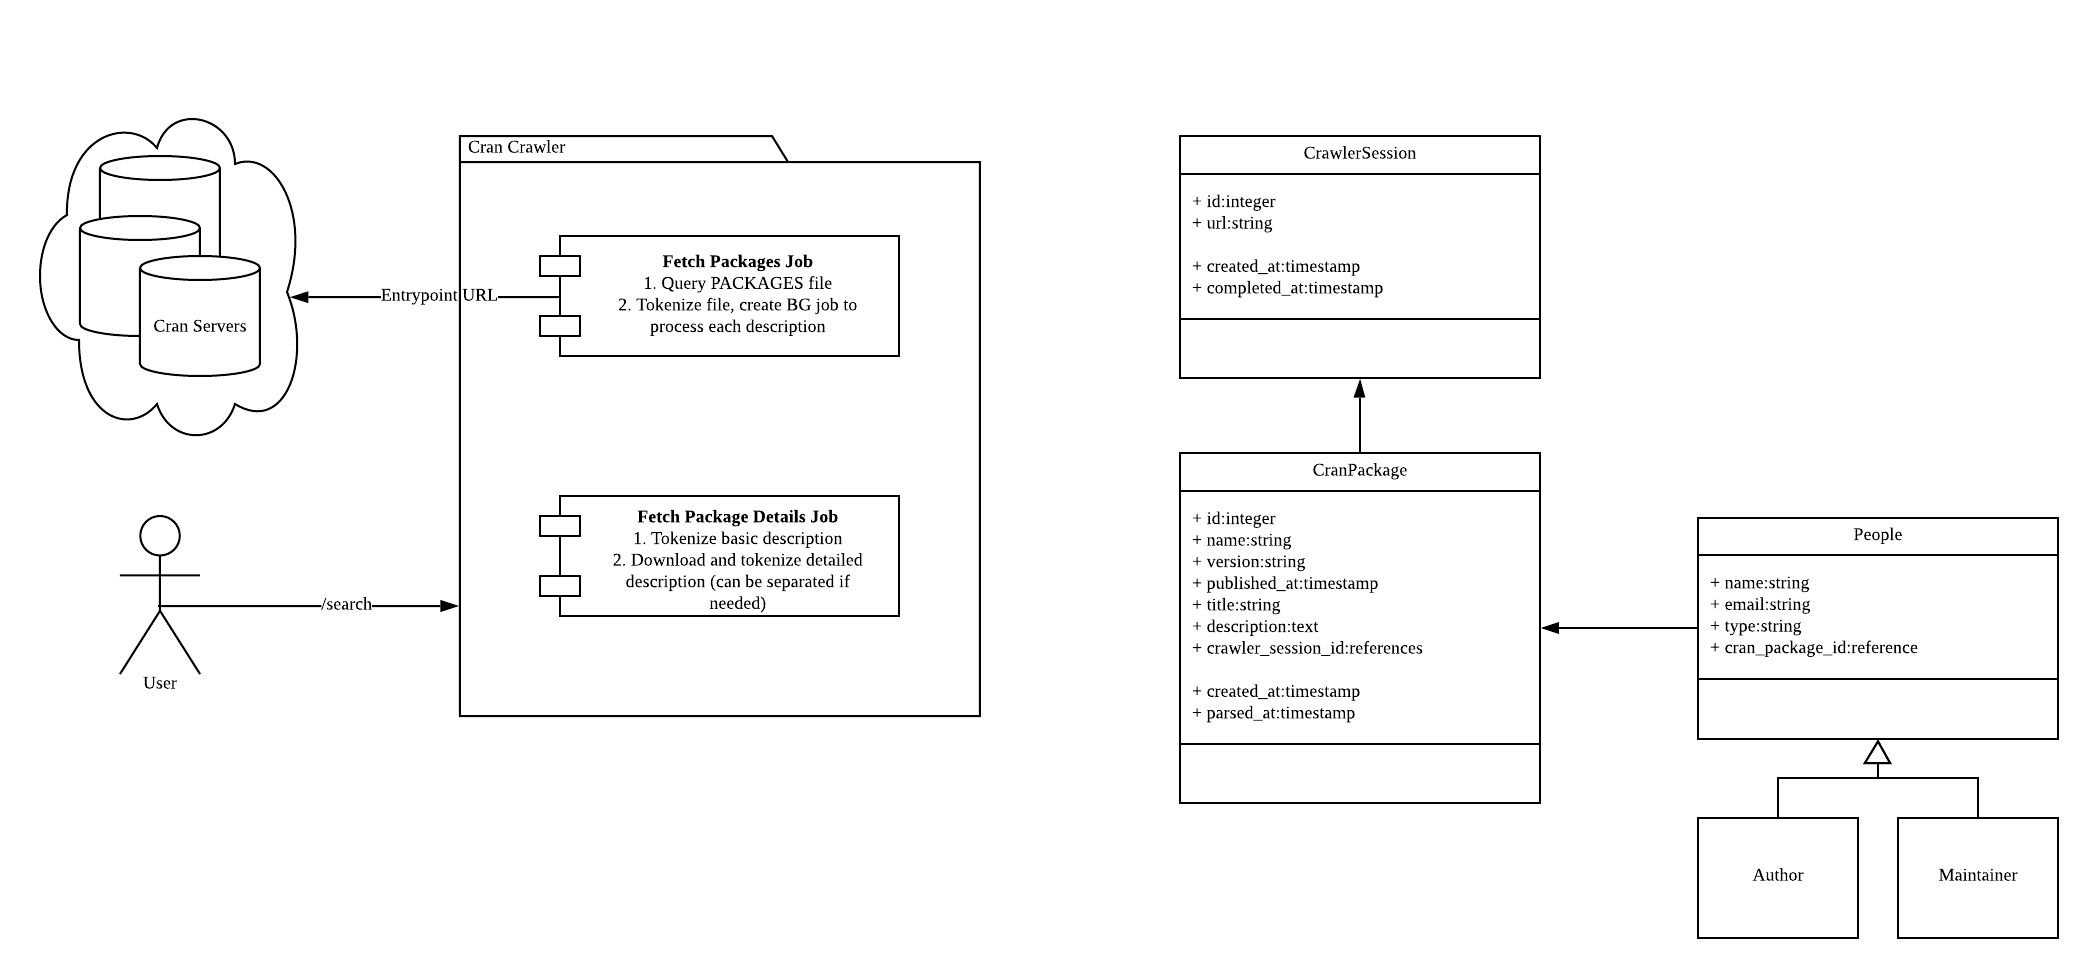
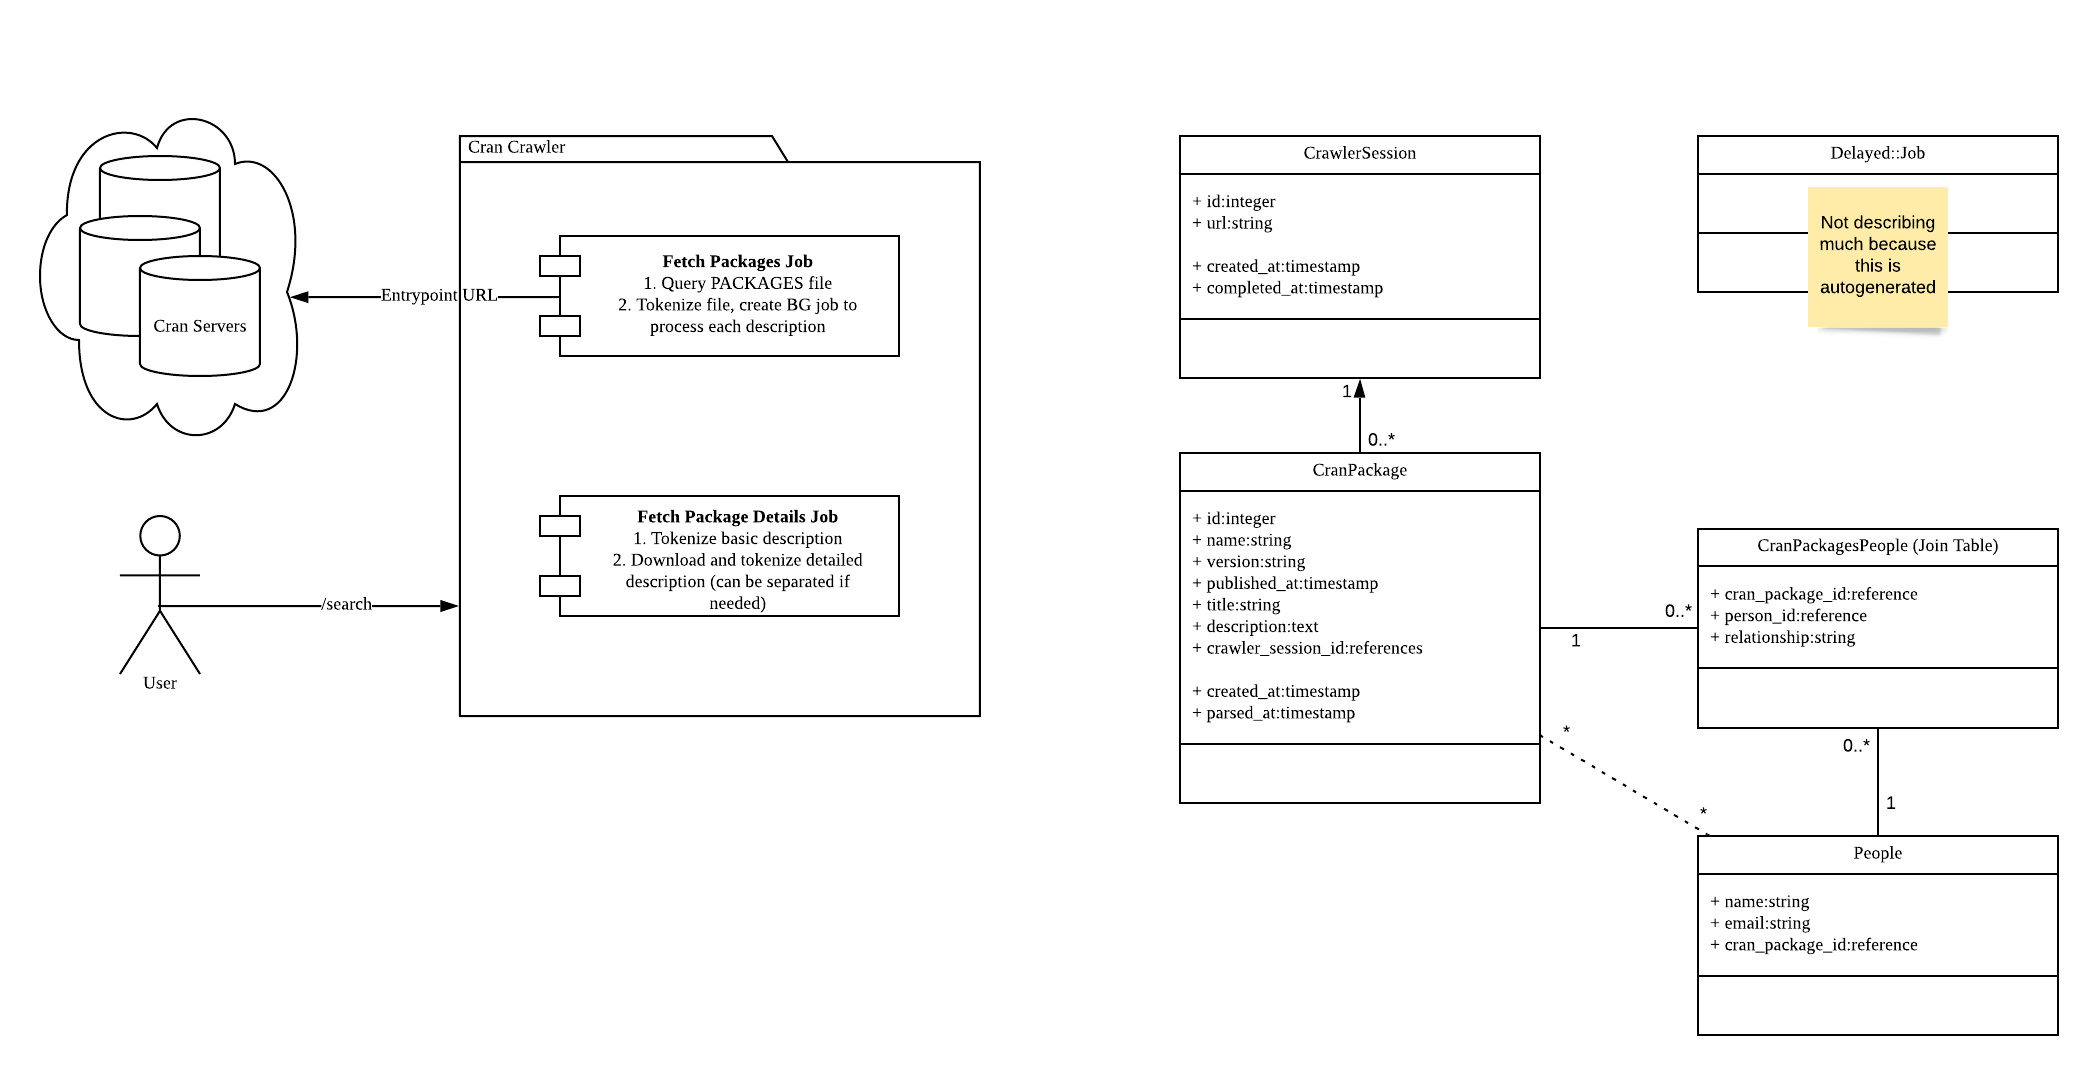
Update docs and erd

diff --git a/README.md b/README.md
@@ -13,7 +13,7 @@ RSpec
 
 # Getting Started
 
-## Path 1: Barebones Setup (Recommended)
+## Path 1: Barebones Setup
 
 1. Install [rbenv](https://github.com/rbenv/rbenv#installation)
 1. Install [Ruby 2.6.5](https://github.com/rbenv/rbenv#installing-ruby-versions)
@@ -23,15 +23,14 @@ RSpec
 1. Start background worker: `bin/delayed_job start`
 1. Run server: `rails s`
 
-## Path 2: Docker (WIP)
+## Path 2: Docker Compose
 
-I would love to help ease your process but I will need to go soon. I hope the first path is convenient for you.
+1. Install [docker](https://docs.docker.com/install/)
+1. Install [docker-compose](https://docs.docker.com/compose/install/)
 
 ```
-docker build .
+docker-compose up
 ```
-
-Otherwise, over the weekend I will setup docker compose for this project.
 
 # Application Logic
 
@@ -39,8 +38,13 @@ Otherwise, over the weekend I will setup docker compose for this project.
 
 1. Start rails console
 ```
+# 1. If using local setup
 $ rails c
+
+# 2. If using docker-compose
+$ docker-compose run app /bin/sh
 ```
+
 2. TriggerCrawler
 ```
 irb(main):001:0> FetchPackagesJob.perform_later("https://cran.r-project.org/src/contrib/")
